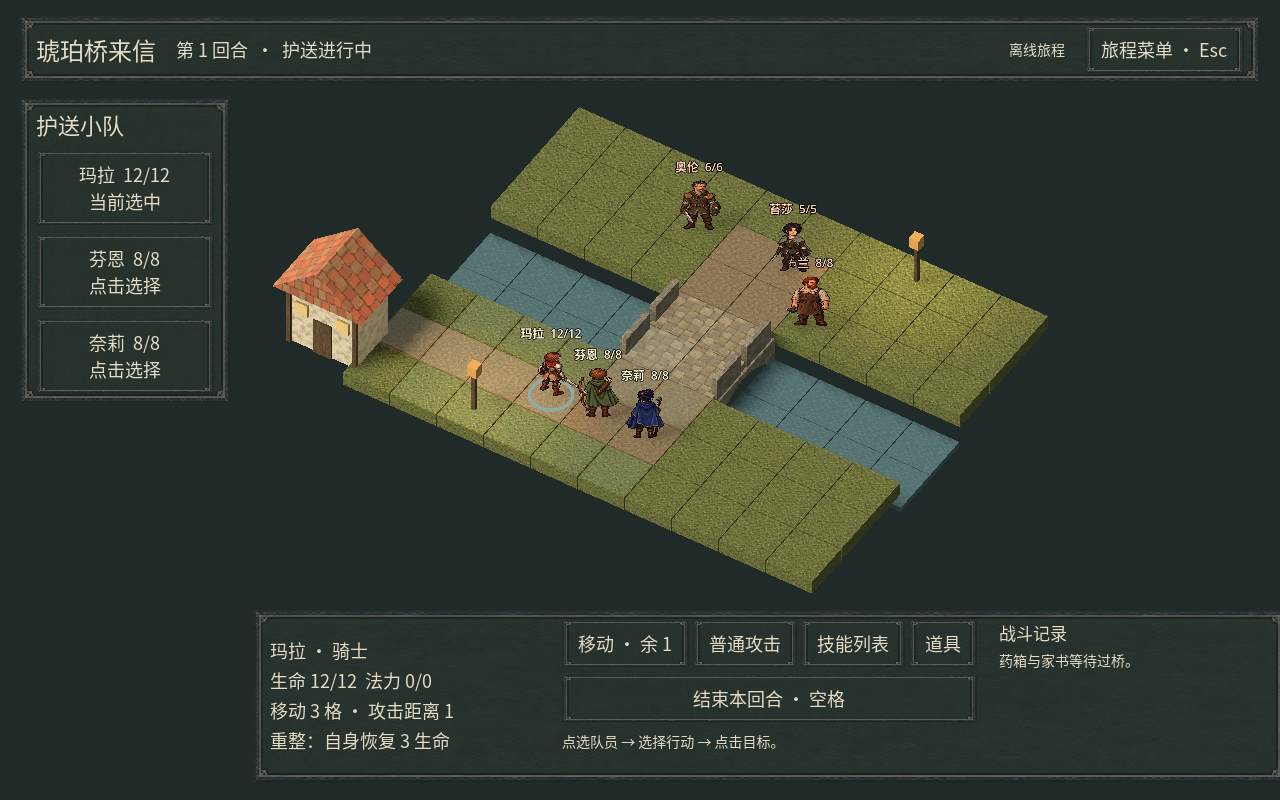
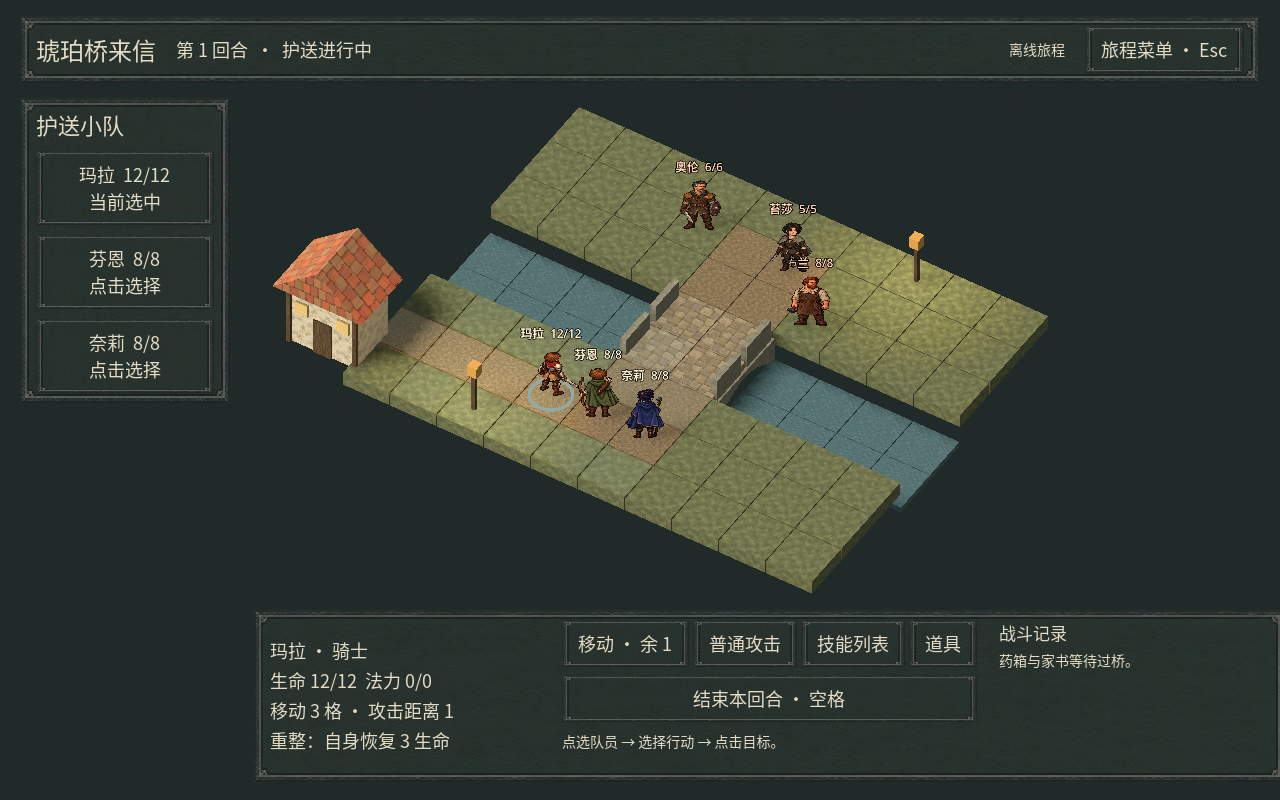
Verify quieter environment source textures in the tactical camera

diff --git a/docs/ART_ANIMATION_INCREMENT.md b/docs/ART_ANIMATION_INCREMENT.md
@@ -30,3 +30,7 @@ godot --display-driver x11 --audio-driver Dummy --rendering-method gl_compatibil
 ## Remaining gates
 
 Other five roles' elevated idles and all remaining elevated walk directions; full defender/attacker combat sets; smoothness and foot-contact refinement; consistent portrait/character/environment palette; grass frequency and stone-wall seams; more scene dressing without obscuring the grid. No complete idle breathing/turn animations or all-role death/recovery set is claimed. Network remains loopback-only, no account ownership, durable room recovery, public multiplayer acceptance, cross-platform deterministic certification or exported release binary. Content editor and equipment are bounded functional samples, not commercial content volume.
+
+## Environment source revision 2
+
+Art commit `9d040dc11504ff954347464cf5179d9c588ee656` replaced only runtime grass and stone-wall images, retaining v1 originals and revision2 provenance. Reimport and the same real 1280x800 scene capture succeeded; the grass is visibly less noisy and the wall repeat boundary is less prominent. No global darkening or additional image postprocess was used for this comparison. Current battle/dialogue screenshots show this revision; earlier iso4/movie artifacts deliberately remain evidence of the prior recorded source version. This asset-only change did not alter rules or require rerunning the complete rule suite.
